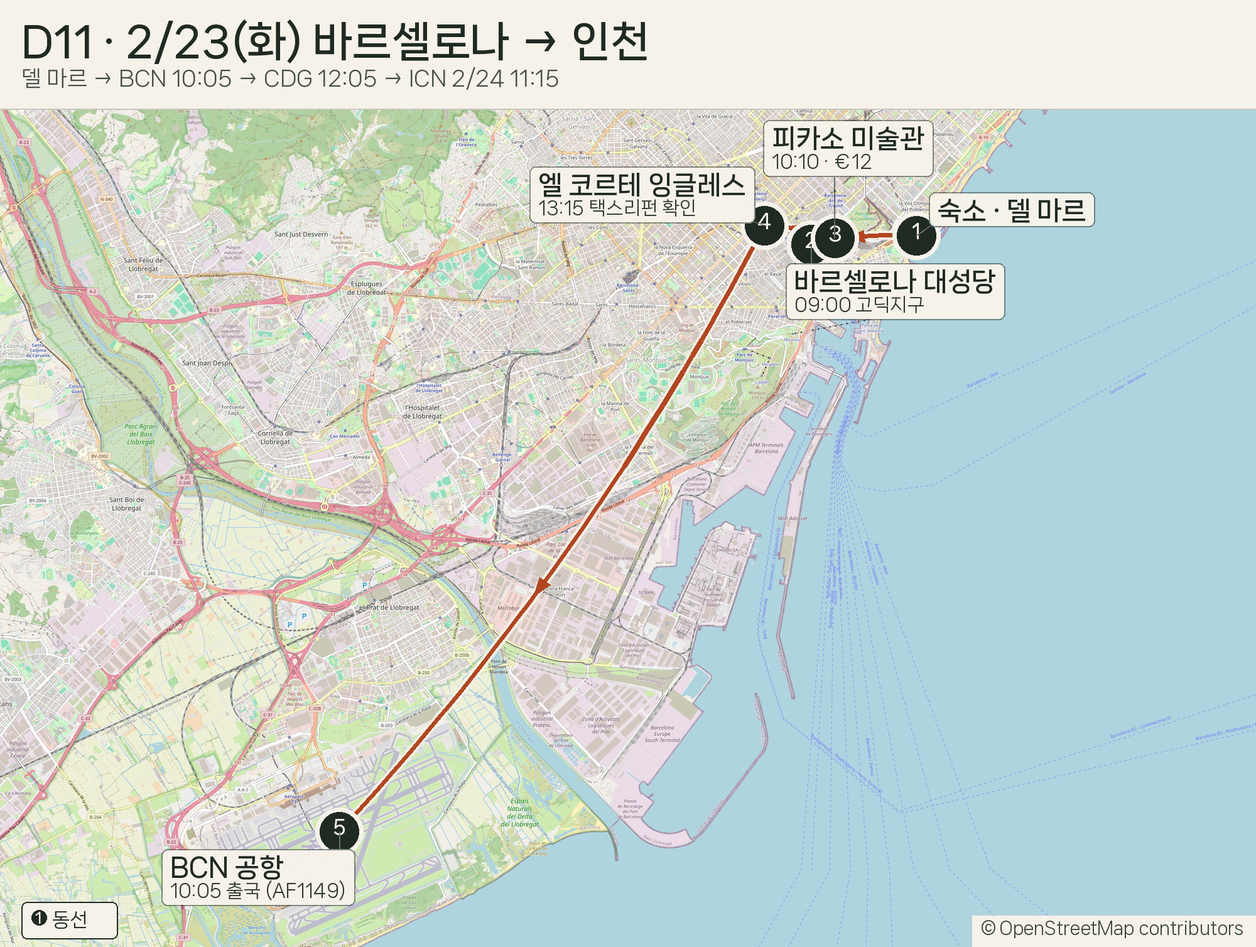
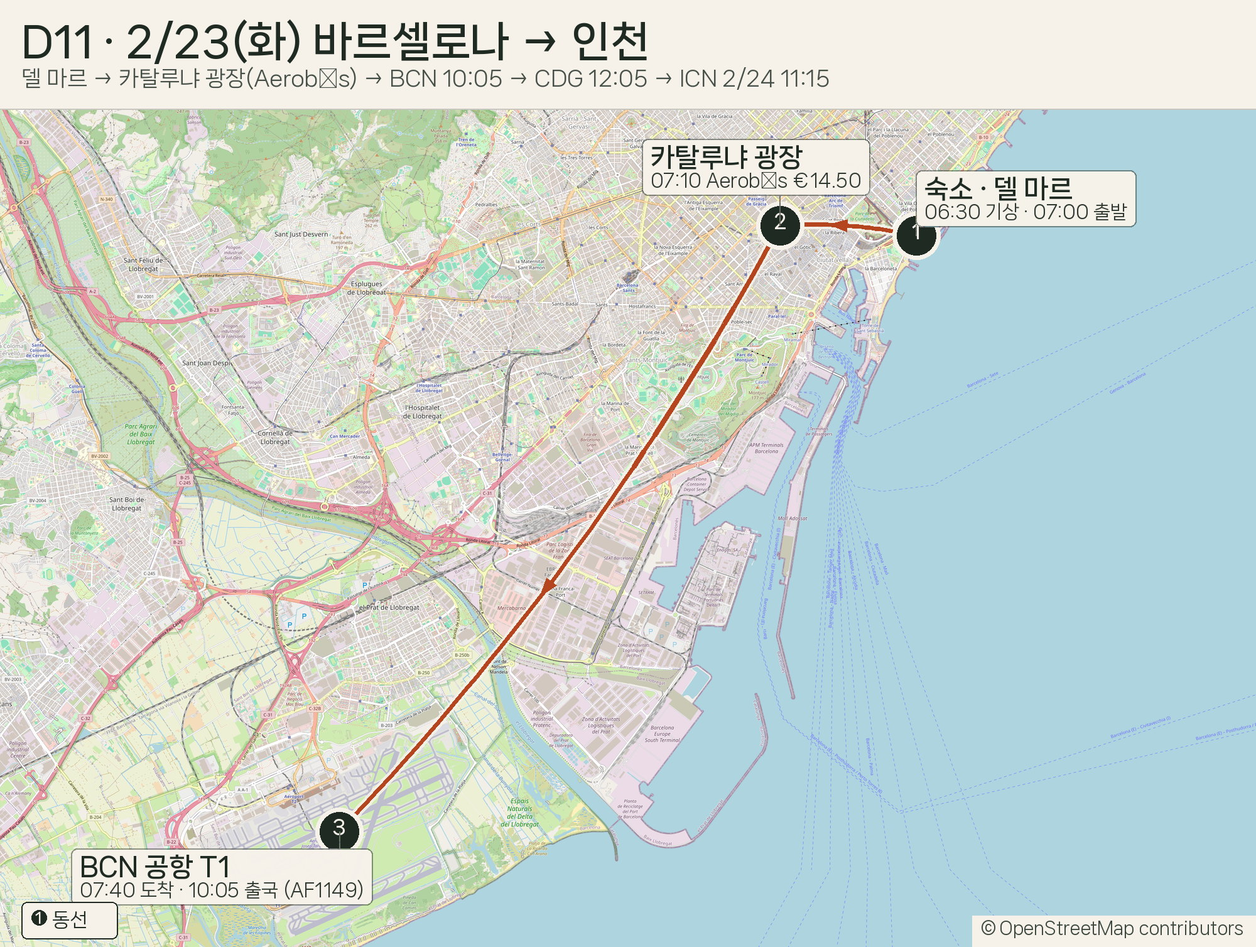
주간 갱신: 항공·숙박 실시간 요금 반영 (2026-11-19)

diff --git a/itinerary.html b/itinerary.html
@@ -325,10 +325,10 @@ body::after{
 <tr class="ledger-stay"><td class="t">—</td><td class="what"><span class="stay-label">숙박</span> 포르투 · <b>Torel Palace Porto</b> 5성급  (4.8·476후기·미쉐린 키1)</td><td class="src">hotel-api 실조회(11/14)</td><td class="cost">224,292</td></tr>
 <tr class="free"><td class="t">05:20</td><td class="what">AMS 도착 · 환승 3시간 10분</td><td class="src">항공 조회(11/14)</td><td class="cost">—</td></tr>
 <tr class="free"><td class="t">08:30</td><td class="what"><b>KL1579</b> AMS 08:30 → LIS 10:30 · B737-800 · 3h</td><td class="src">항공 조회(11/14)</td><td class="cost">—</td></tr>
-<tr class=""><td class="t">11:10</td><td class="what">택시 → 벨렝 (15분)</td><td class="src">예산(현장 결제)</td><td class="cost">15,000</td></tr>
-<tr class=""><td class="t">11:40</td><td class="what"><b>제로니무스 수도원</b> (€18×2) · 오픈런</td><td class="src">공식 요금</td><td class="cost">57,225</td></tr>
-<tr class=""><td class="t">13:00</td><td class="what"><b>파스테이스 드 벨렝</b> — 에그타르트 4 + 커피 2 (€1.60/개)</td><td class="src">실메뉴(11/15 조회)</td><td class="cost">13,988</td></tr>
-<tr class="free"><td class="t">13:40</td><td class="what">벨렝 탑 외관 · 테주강 산책</td><td class="src"></td><td class="cost">—</td></tr>
+<tr class=""><td class="t">11:30</td><td class="what">입국심사·수하물 → 택시 → 벨렝 (15분)</td><td class="src">예산(현장 결제)</td><td class="cost">15,000</td></tr>
+<tr class=""><td class="t">12:10</td><td class="what"><b>제로니무스 수도원</b> (€18×2) · 슬롯 지정</td><td class="src">공식 요금</td><td class="cost">57,225</td></tr>
+<tr class=""><td class="t">13:45</td><td class="what"><b>파스테이스 드 벨렝</b> — 에그타르트 4 + 커피 2 (€1.60/개)</td><td class="src">실메뉴(11/15 조회)</td><td class="cost">13,988</td></tr>
+<tr class="free"><td class="t">14:30</td><td class="what">벨렝 탑 외관 · 테주강 산책 · 짐 보관 확인</td><td class="src"></td><td class="cost">—</td></tr>
 <tr class=""><td class="t">17:30</td><td class="what">저녁 — 카이스 두 소드레 좌식 (2인 €40)</td><td class="src">예산(현장 결제)</td><td class="cost">63,583</td></tr>
 <tr class=""><td class="t">19:00</td><td class="what">메트로 → 리스본 공항</td><td class="src">공식 요금</td><td class="cost">6,000</td></tr>
 <tr class=""><td class="t">21:05</td><td class="what">TAP 직항 1시간 LIS→OPO (2인)</td><td class="src">항공 조회(11/14)</td><td class="cost">195,468</td></tr>
@@ -409,11 +409,11 @@ body::after{
       <tbody>
 <tr class="ledger-stay"><td class="t">—</td><td class="what"><span class="stay-label">숙박</span> 세비야 · SANTIAGO 15 BOUTIQUE HOTEL (4.3·579후기·알팔파)</td><td class="src">hotel-api 실조회(11/14)</td><td class="cost">83,399</td></tr>
 <tr class="free"><td class="t">05:30</td><td class="what">기상 · 체크아웃 (조식은 공항에서)</td><td class="src"></td><td class="cost">—</td></tr>
-<tr class=""><td class="t">06:00</td><td class="what">볼트 → OPO 공항</td><td class="src">예산(현장 결제)</td><td class="cost">20,000</td></tr>
+<tr class=""><td class="t">05:55</td><td class="what">볼트 → OPO 공항 (이륙 100분 전)</td><td class="src">예산(현장 결제)</td><td class="cost">20,000</td></tr>
 <tr class=""><td class="t">07:35</td><td class="what">라이언에어 직항 2시간 15분 OPO→SVQ (2인)</td><td class="src">항공 조회(11/14)</td><td class="cost">95,258</td></tr>
-<tr class=""><td class="t">10:20</td><td class="what">세비야 도착 → 버스 → 숙소 (짐 보관)</td><td class="src">공식 요금</td><td class="cost">6,000</td></tr>
-<tr class=""><td class="t">11:00</td><td class="what"><b>세비야 대성당 · 히랄다 탑</b> (€12×2)</td><td class="src">공식 요금</td><td class="cost">38,150</td></tr>
-<tr class=""><td class="t">13:00</td><td class="what"><b>엘 링콘시요</b> — 하몬·치즈·사르디나 타파 (2인 €26.50)</td><td class="src">실메뉴(11/15 조회)</td><td class="cost">42,124</td></tr>
+<tr class=""><td class="t">10:30</td><td class="what">수하물 수취 → 버스 → 숙소 (짐 보관)</td><td class="src">공식 요금</td><td class="cost">6,000</td></tr>
+<tr class=""><td class="t">12:00</td><td class="what"><b>세비야 대성당 · 히랄다 탑</b> (€12×2)</td><td class="src">공식 요금</td><td class="cost">38,150</td></tr>
+<tr class=""><td class="t">13:30</td><td class="what"><b>엘 링콘시요</b> — 하몬·치즈·사르디나 타파 (2인 €26.50)</td><td class="src">실메뉴(11/15 조회)</td><td class="cost">42,124</td></tr>
 <tr class="free"><td class="t">15:00</td><td class="what">숙소 체크인 · 짧게 휴식</td><td class="src">hotel-api 실조회(11/14)</td><td class="cost">—</td></tr>
 <tr class=""><td class="t">19:30</td><td class="what">저녁 — 산타크루스 좌식 (2인 €40)</td><td class="src">예산(현장 결제)</td><td class="cost">63,583</td></tr>
 <tr class="ledger-sum"><td></td><td>숙박 83,399 · 식비 105,707 · 입장·이동 159,408</td><td></td><td class="cost">348,514</td></tr>
@@ -573,12 +573,12 @@ body::after{
 <tr class="ledger-stay"><td class="t">—</td><td class="what"><span class="stay-label">숙박</span> 바르셀로나 · Vincci Marítimo 4성급  (4.4·3,400후기·델 마르)</td><td class="src">hotel-api 실조회(11/14)</td><td class="cost">128,171</td></tr>
 <tr class="free"><td class="t">08:00</td><td class="what">기상 · 조식 · 체크아웃</td><td class="src"></td><td class="cost">—</td></tr>
 <tr class="free"><td class="t">10:00</td><td class="what">알바이신 마지막 산책</td><td class="src"></td><td class="cost">—</td></tr>
-<tr class=""><td class="t">12:00</td><td class="what">점심 — 그라나다 좌식 (2인 €35)</td><td class="src">예산(현장 결제)</td><td class="cost">55,635</td></tr>
-<tr class=""><td class="t">12:50</td><td class="what">버스 → GRX 공항 (40분)</td><td class="src">예산(현장 결제)</td><td class="cost">20,000</td></tr>
+<tr class=""><td class="t">11:30</td><td class="what">이른 점심 — 그라나다 좌식 (2인 €35)</td><td class="src">예산(현장 결제)</td><td class="cost">55,635</td></tr>
+<tr class=""><td class="t">12:10</td><td class="what">버스 → GRX 공항 (40분 · 이륙 130분 전)</td><td class="src">예산(현장 결제)</td><td class="cost">20,000</td></tr>
 <tr class=""><td class="t">14:20</td><td class="what">부엘링 직항 1시간 25분 GRX→BCN (2인)</td><td class="src">항공 조회(11/14)</td><td class="cost">212,145</td></tr>
-<tr class=""><td class="t">16:20</td><td class="what">Aerobús → 카탈루냐 광장 (€14.50)</td><td class="src">예산(현장 결제)</td><td class="cost">23,049</td></tr>
-<tr class="free"><td class="t">17:00</td><td class="what">숙소 체크인 · 짐 풀기</td><td class="src">hotel-api 실조회(11/14)</td><td class="cost">—</td></tr>
-<tr class="free"><td class="t">17:30</td><td class="what"><b>쇼핑 ①</b> — 파세이그 데 그라시아 명품·주얼리 시착 (샤넬·LV·로에베 / 반클리프·까르띠에 · 그라시아 거리) · <b>일요일 법정 휴무라 토요일 저녁(20:30까지)이 첫 창</b></td><td class="src"></td><td class="cost">—</td></tr>
+<tr class=""><td class="t">16:30</td><td class="what">수하물 수취 → Aerobús → 카탈루냐 광장 (€14.50)</td><td class="src">예산(현장 결제)</td><td class="cost">23,049</td></tr>
+<tr class="free"><td class="t">17:20</td><td class="what">숙소 체크인 · 짐 풀기</td><td class="src">hotel-api 실조회(11/14)</td><td class="cost">—</td></tr>
+<tr class="free"><td class="t">17:50</td><td class="what"><b>쇼핑 ①</b> — 파세이그 데 그라시아 명품·주얼리 시착 (샤넬·LV·로에베 / 반클리프·까르띠에 · 그라시아 거리) · <b>일요일 법정 휴무라 토요일 저녁(20:30까지)이 첫 창</b></td><td class="src"></td><td class="cost">—</td></tr>
 <tr class=""><td class="t">20:30</td><td class="what">저녁 — 그라시아 좌식 (2인 €45)</td><td class="src">예산(현장 결제)</td><td class="cost">71,531</td></tr>
 <tr class="ledger-sum"><td></td><td>숙박 128,171 · 식비 127,166 · 입장·이동 255,194</td><td></td><td class="cost">510,531</td></tr>
       </tbody>
@@ -700,12 +700,12 @@ body::after{
         <tr><th scope="col">시각</th><th scope="col">일정</th><th scope="col">근거</th><th scope="col">비용(2인)</th></tr>
       </thead>
       <tbody>
-<tr class="free"><td class="t">06:30</td><td class="what">기상 · 조식 · 체크아웃</td><td class="src"></td><td class="cost">—</td></tr>
-<tr class=""><td class="t">07:00</td><td class="what">Aerobús → BCN 공항 (€14.50)</td><td class="src">예산(현장 결제)</td><td class="cost">23,049</td></tr>
-<tr class="free"><td class="t">07:30</td><td class="what">공항 도착 · 체크인 (<b>수하물 ICN 직통 태그</b> 확인)</td><td class="src">공식 요금</td><td class="cost">—</td></tr>
-<tr class="free"><td class="t">07:50</td><td class="what">세관 데스크 <b>수출 검증</b> — CDG 경유라 EU 출국지는 CDG, 위탁수하물이면 BCN에서 검증</td><td class="src">공식 요금</td><td class="cost">—</td></tr>
+<tr class="free"><td class="t">06:00</td><td class="what">기상 · 조식 · 체크아웃</td><td class="src"></td><td class="cost">—</td></tr>
+<tr class=""><td class="t">06:40</td><td class="what">메트로 → 카탈루냐 광장 (델 마르에서 2정거장) · Aerobús €14.50</td><td class="src">예산(현장 결제)</td><td class="cost">23,049</td></tr>
+<tr class="free"><td class="t">07:25</td><td class="what">BCN T1 도착 · 체크인 (<b>수하물 ICN 직통 태그</b> 확인)</td><td class="src">공식 요금</td><td class="cost">—</td></tr>
+<tr class="free"><td class="t">07:50</td><td class="what">세관 데스크 — EU 최종 출국지는 <b>CDG</b>. BCN에서는 택스리펀 검증 불가 → 물품은 <b>기내 수하물</b>로 빼서 CDG 2E에서 검증</td><td class="src">공식 요금</td><td class="cost">—</td></tr>
 <tr class="free"><td class="t">10:05</td><td class="what"><b>AF1149</b> BCN 10:05 → CDG 12:05 · A321 · 2h00 · <a href="https://www.google.com/travel/flights?hl=ko&gl=kr&curr=KRW&q=Flights%20one%20way%20from%20BCN%20to%20ICN%20on%202027-02-23" target="_blank" rel="noopener">구글 항공권 2/23 BCN→ICN · 예약</a></td><td class="src">항공 조회(11/14)</td><td class="cost">—</td></tr>
-<tr class="free"><td class="t">12:05</td><td class="what">CDG 환승 3시간</td><td class="src">항공 조회(11/14)</td><td class="cost">—</td></tr>
+<tr class="free"><td class="t">12:05</td><td class="what">CDG 환승 3시간 · <b>2E 세관에서 택스리펀 수동 검증</b>(키오스크 불가, 여권·탑승권·물품·영수증)</td><td class="src">항공 조회(11/14)</td><td class="cost">—</td></tr>
 <tr class="free"><td class="t">15:05</td><td class="what"><b>AF264</b> CDG 15:05 → ICN 11:15+1 · A350-900 · 12h10</td><td class="src">항공 조회(11/14)</td><td class="cost">—</td></tr>
 <tr class="free"><td class="t">—</td><td class="what">기내식 2회 (운임 포함)</td><td class="src">실결제(11/15 KLM 영수증)</td><td class="cost">—</td></tr>
 <tr class="free"><td class="t">—</td><td class="what"><b>2/24(수) 11:15 인천 도착</b> → 대전</td><td class="src"></td><td class="cost">—</td></tr>
